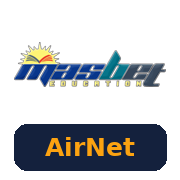
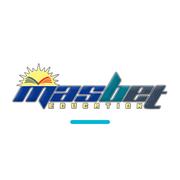
Add files via upload

diff --git a/index.html b/index.html
@@ -9,7 +9,7 @@
 <meta name="description" content="Masbet, yon sèl aplikasyon pou tout moun : Wi-Fi ak MonCash oswa NatCash, TV ak match an dirèk, lives, quiz, jwèt lespri, kominote, istwa jodi a.">
 <meta http-equiv="Content-Security-Policy" content="default-src 'self'; script-src 'self' 'unsafe-inline' https://www.gstatic.com/firebasejs/ https://cdnjs.cloudflare.com/ajax/libs/hls.js/1.5.13/hls.min.js; worker-src 'self' blob:; media-src 'self' blob: https:; style-src 'self' 'unsafe-inline'; img-src 'self' data: https:; connect-src 'self' https: https://script.google.com https://script.googleusercontent.com https://firebaseinstallations.googleapis.com https://fcmregistrations.googleapis.com https://fcm.googleapis.com; frame-src https://www.youtube-nocookie.com https://www.facebook.com https://*.cloudflarestream.com; object-src 'none'; base-uri 'self'; form-action 'self'; upgrade-insecure-requests">
 <meta name="referrer" content="strict-origin-when-cross-origin">
-<title>Masbet — Wi-Fi, TV, match, quiz, kominote · Ansavo</title>
+<title>Masbet — Wi-Fi, TV, match, quiz, kominote</title>
 <link rel="canonical" href="https://masbet.me/">
 <meta property="og:type" content="website">
 <meta property="og:site_name" content="Masbet">

diff --git a/sw.js b/sw.js
@@ -1,6 +1,6 @@
 // Service worker MasbetAirNet : l'application s'ouvre même sans réseau (pages en mémoire).
 // Les données (offres, matchs, commandes) viennent toujours en direct du système Google.
-var VERSION = 'masbet-v87';
+var VERSION = 'masbet-v88';
 var FICHIERS = ['./', './index.html', './migrer.js', './temps.js', './pataje.js', './achte.html', './config.js', './logo.png', './jwe-logo.png', './signature.png', './confidentialite.html', './manifest.webmanifest',
   './icon-192.png', './icon-512.png', './icon-maskable-512.png', './apple-touch-icon.png', './apropo.html', './suite.html', './kominote.html', './meditasyon.html', './psiko.html', './devinet.js', './istwa.js', './biblio.html',
   './biblio/livre-sante.js', './biblio/livre-agronomie.js', './biblio/livre-gestion-projet.js', './biblio/livre-ethique.js', './biblio/livre-finance.js', './biblio/livre-fiscalite.js', './biblio/livre-metre-devis.js', './photos/parapli-teren.jpg', './photos/parapli-teren-p.jpg', './photos/ciel_tv.jpg'];

diff --git a/404.html b/404.html
@@ -19,7 +19,7 @@
 </head>
 <body>
 <main>
-  <img src="/icon-192.png" alt="MasbetAirNet">
+  <img src="/icon-192.png" alt="Masbet">
   <h1>Paj sa a pa egziste · Page introuvable</h1>
   <p>Lyen an ka gen yon erè. · Le lien contient peut-être une erreur.</p>
   <a href="/">Aplikasyon · Application</a>
